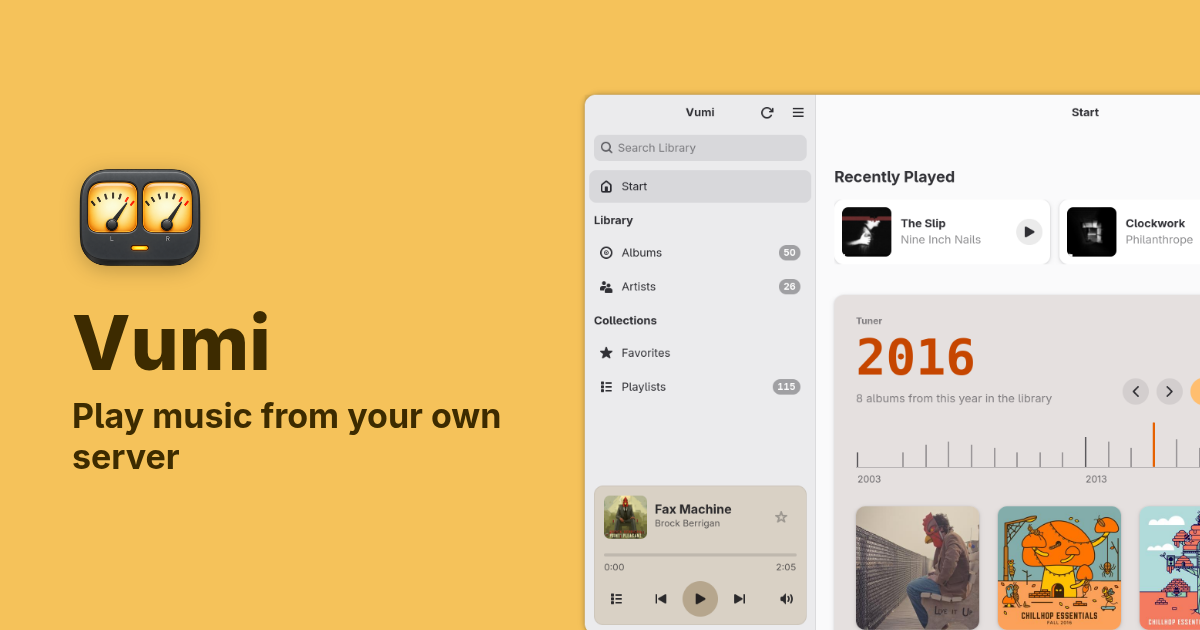
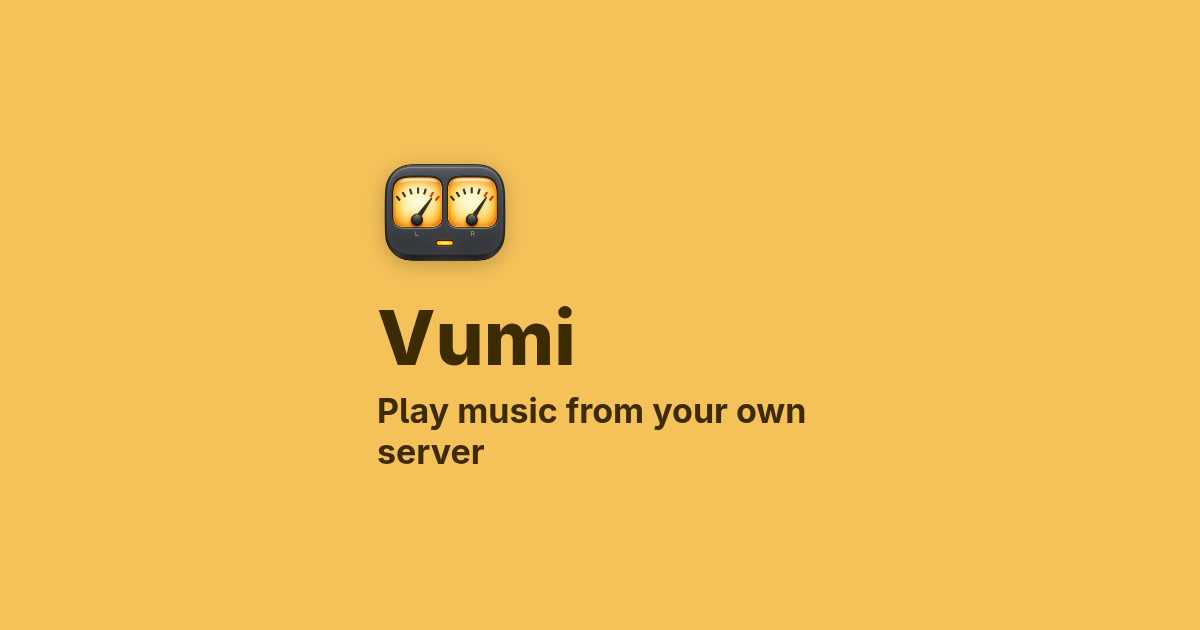
Show the website's preview image without album covers
The old image came from the 0.1 screenshots and showed covers from a demo server.

diff --git a/website/index.html b/website/index.html
@@ -20,7 +20,7 @@
 <meta property="og:image" content="https://vumi.bojanowski.me/og.png">
 <meta property="og:image:width" content="1200">
 <meta property="og:image:height" content="630">
-<meta property="og:image:alt" content="The Vumi icon and its Start page with recently played albums and the Tuner">
+<meta property="og:image:alt" content="The Vumi icon, its name and the words: Play music from your own server">
 <meta name="twitter:card" content="summary_large_image">
 </head>
 <body>
